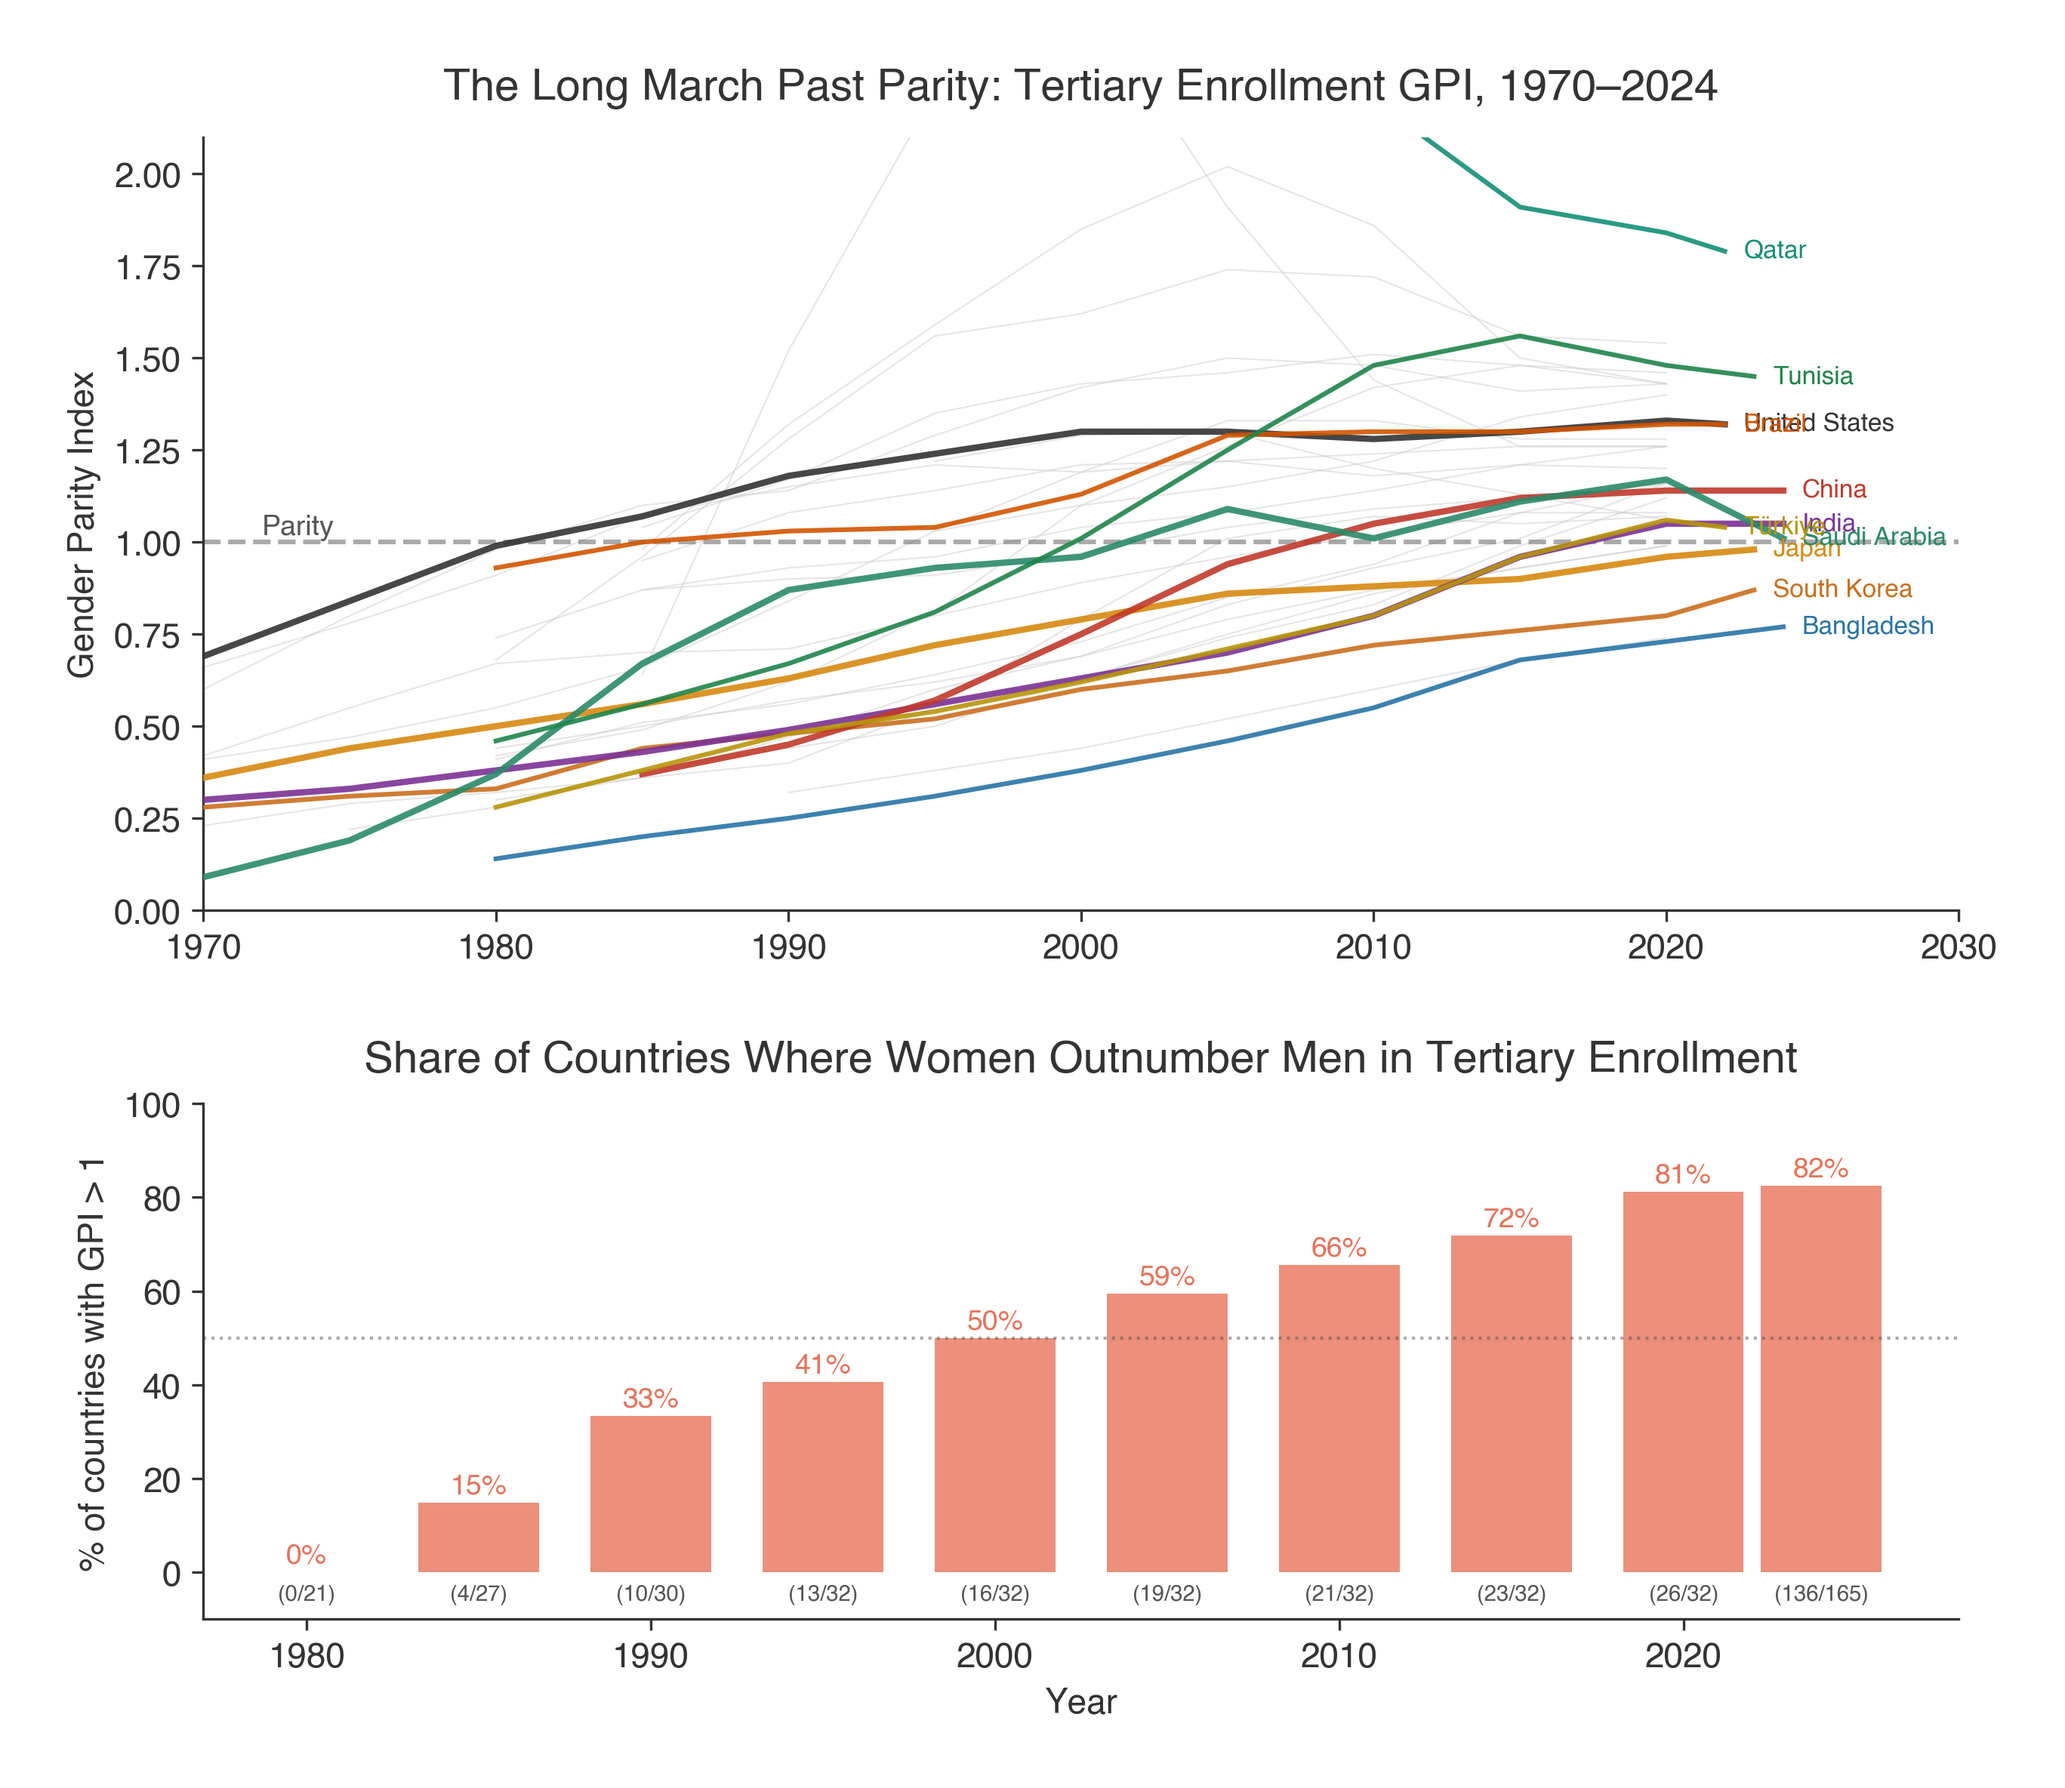
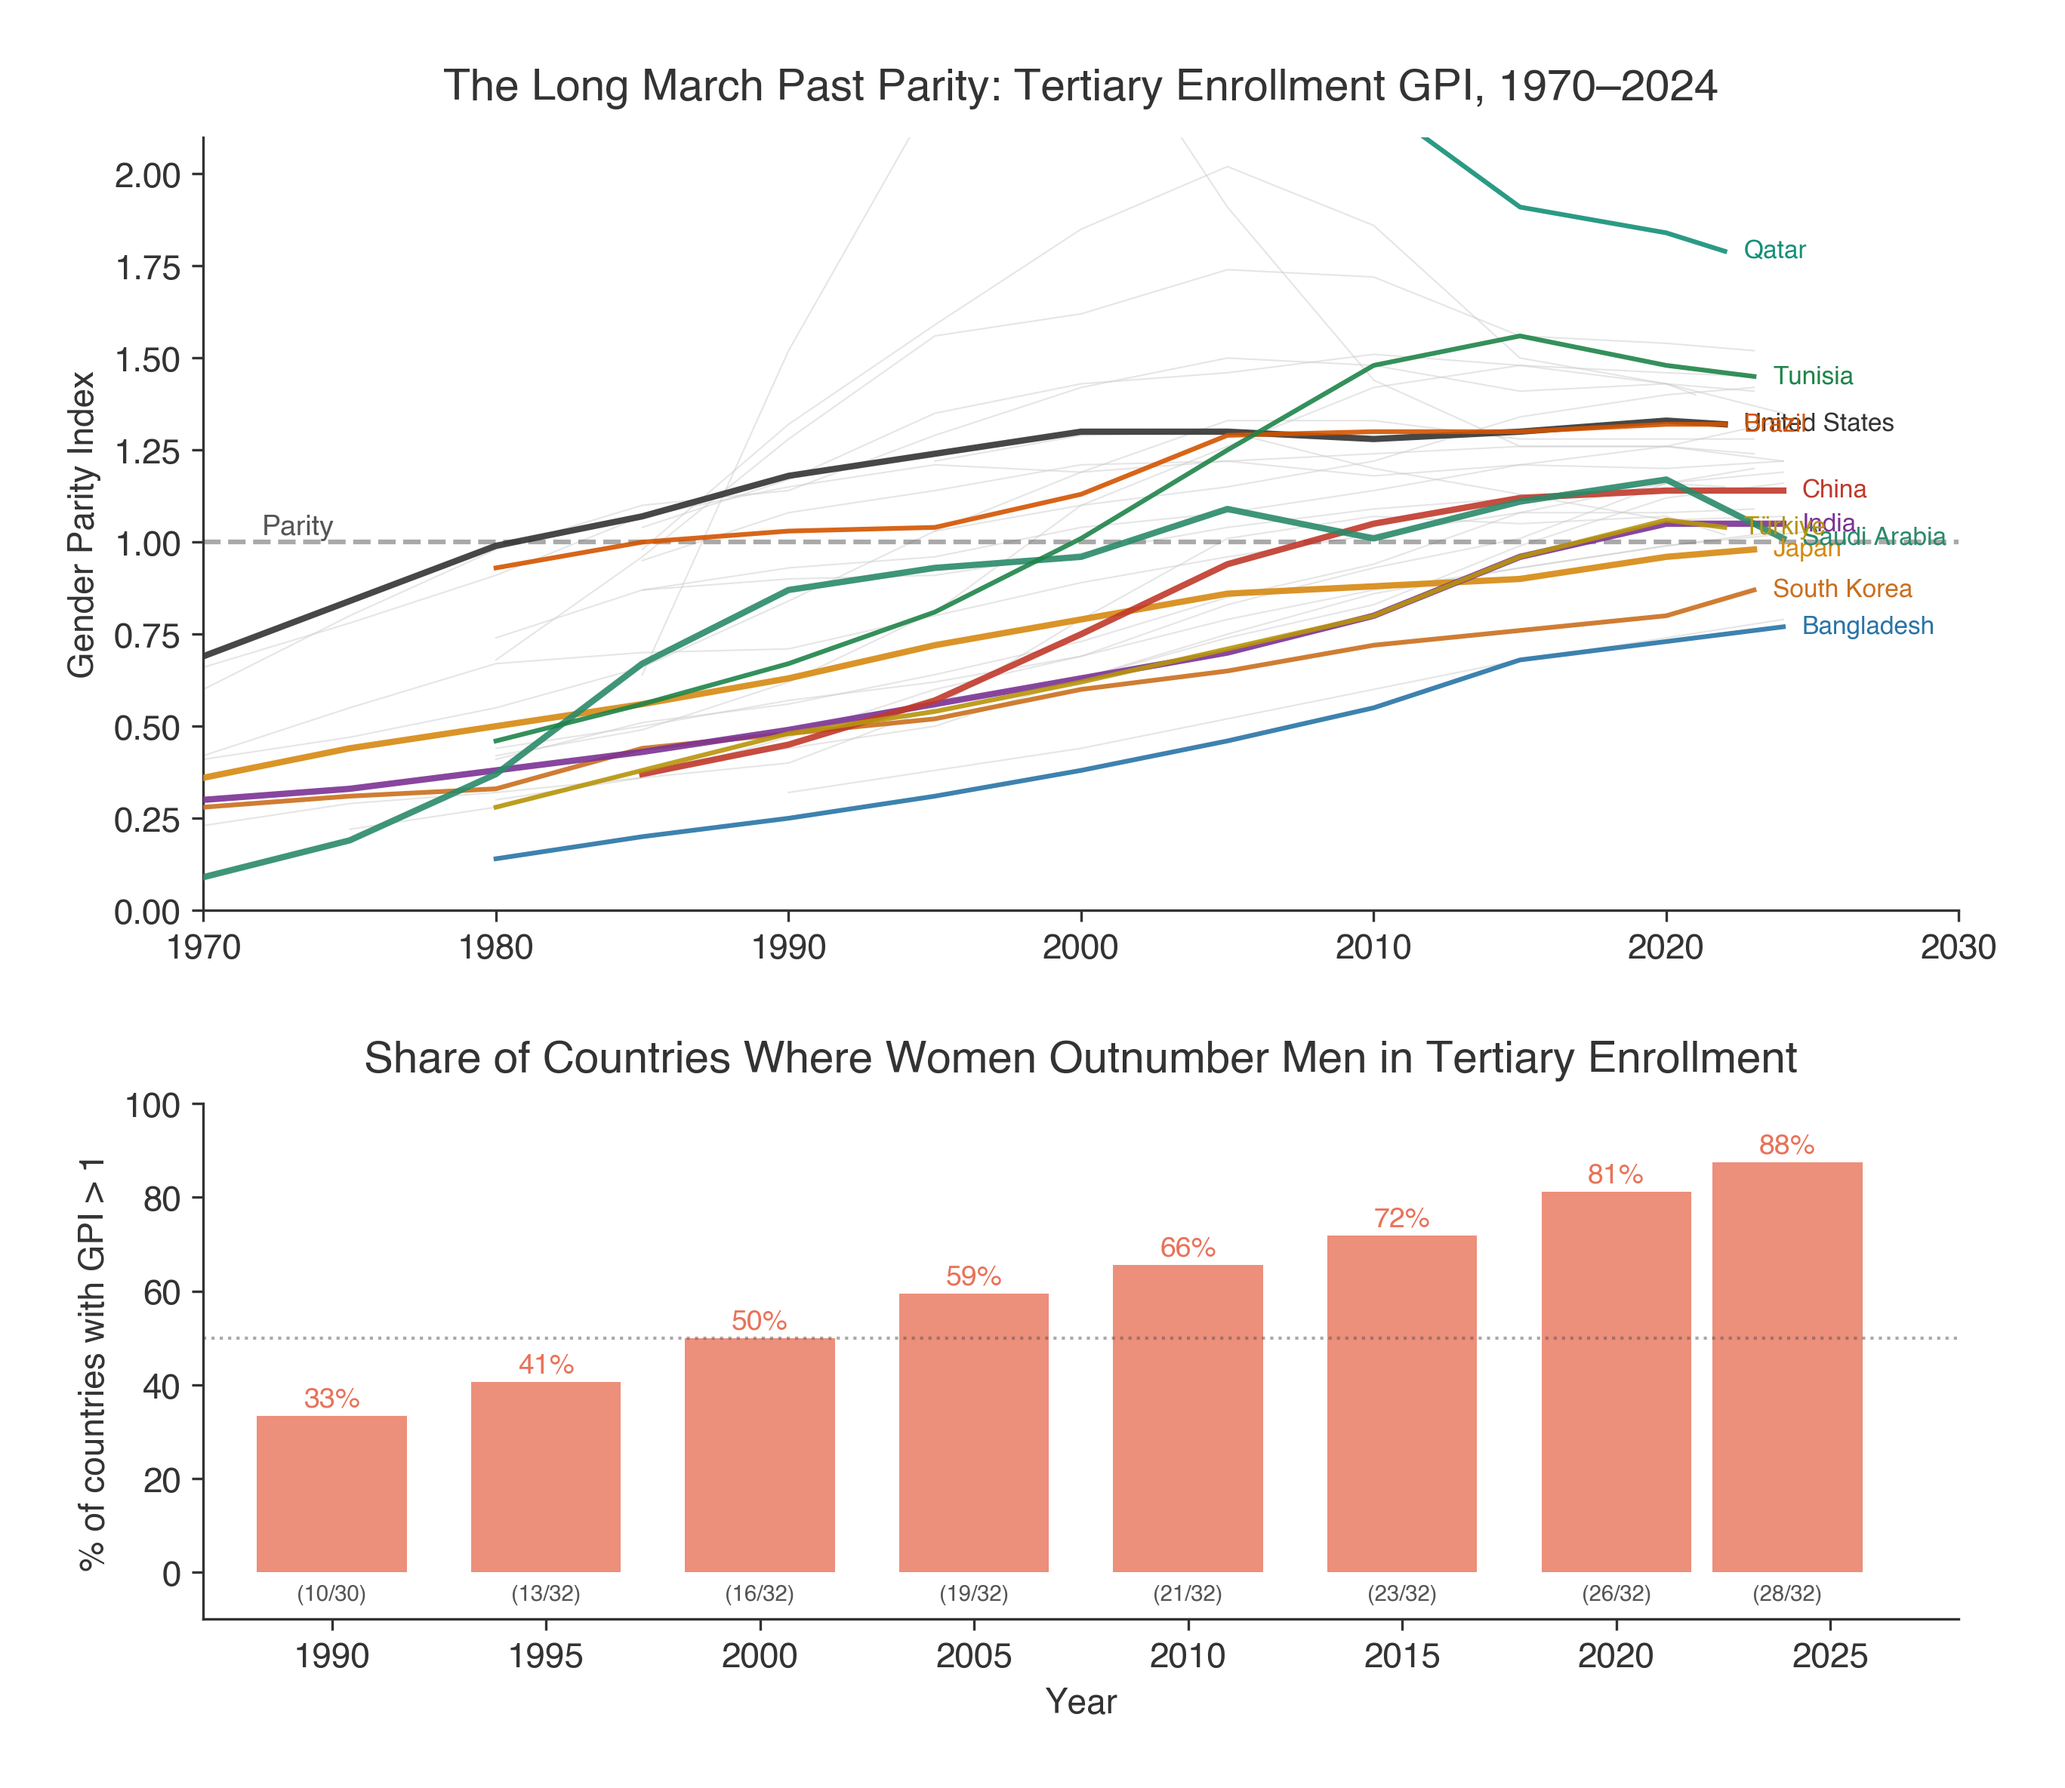
fix some plotting issues + new analysis of growth

Changed region(s): [[0.1243, 0.6247, 0.9324, 0.9371], [0.5594, 0.8746, 0.5905, 0.9371]]

diff --git a/scripts/04_make_figures.py b/scripts/04_make_figures.py
@@ -109,7 +109,7 @@ fig, (ax_hist, ax_strip) = plt.subplots(
 )
 
 gpis = [r['gpi'] for r in data]
-bins = np.arange(0.3, 1.95, 0.05)
+bins = np.round(np.arange(0.3, 1.95, 0.05), 2)
 colors_hist = [FEMALE if b >= 1.0 else MALE for b in bins[:-1]]
 n, _, patches = ax_hist.hist(gpis, bins=bins, edgecolor='white', linewidth=0.5)
 for patch, c in zip(patches, colors_hist):
@@ -121,7 +121,7 @@ ax_hist.annotate('Parity', xy=(1.0, ax_hist.get_ylim()[1]*0.92), fontsize=9, col
 ax_hist.annotate(f'Median = {np.median(gpis):.1f}', xy=(np.median(gpis), ax_hist.get_ylim()[1]*0.92), fontsize=9, color=GOLD, ha='left', xytext=(8,0), textcoords='offset points')
 ax_hist.set_ylabel('Number of countries'); ax_hist.set_xlim(0.3, 1.9)
 ax_hist.set_xticks([]); ax_hist.spines['bottom'].set_visible(False)
-ax_hist.set_title('Distribution of Tertiary Enrollment GPI across 165 Countries', pad=12)
+ax_hist.set_title('Distribution of Tertiary Enrollment GPI across 203 Countries', pad=12)
 
 maxpop = max(d['pop'] for d in data)
 for r in data:
@@ -250,9 +250,13 @@ highlight_countries = {
 for c in hist:
     if c['iso3'] not in highlight_countries:
         ts = c['ts']
-        if len(ts) >= 3:
+        if len(ts) >= 2:
             yrs = sorted(ts.keys())
-            ax_top.plot(yrs, [ts[y] for y in yrs], color='#cccccc', alpha=0.5, lw=0.5, zorder=1)
+            vals = [ts[y] for y in yrs]
+            if c['latest'] is not None:
+                yrs.append(c['latest_year'])
+                vals.append(c['latest'])
+            ax_top.plot(yrs, vals, color='#cccccc', alpha=0.5, lw=0.5, zorder=1)
 
 # Draw highlighted countries
 for c in hist:
@@ -282,7 +286,7 @@ ax_top.spines['right'].set_visible(False)
 
 # --- Bottom panel: share of countries with GPI > 1 over time ---
 # Compute for each snapshot year how many countries had data and how many > 1
-snapshot_years = [1980, 1985, 1990, 1995, 2000, 2005, 2010, 2015, 2020]
+snapshot_years = [1990, 1995, 2000, 2005, 2010, 2015, 2020]
 n_total = []
 n_above = []
 pct_above = []
@@ -294,11 +298,13 @@ for y in snapshot_years:
     n_above.append(len(above))
     pct_above.append(100 * len(above) / len(has_data) if has_data else 0)
 
-# Add latest snapshot from the full current dataset
+# Add latest snapshot from the historical panel (for consistency)
+latest_data = [c for c in hist if c['latest'] is not None]
+latest_above = [c for c in latest_data if c['latest'] > 1.0]
 snapshot_years.append(2024)
-n_total.append(165)
-n_above.append(136)
-pct_above.append(82.4)
+n_total.append(len(latest_data))
+n_above.append(len(latest_above))
+pct_above.append(100 * len(latest_above) / len(latest_data) if latest_data else 0)
 
 ax_bot.bar(snapshot_years, pct_above, width=3.5, color=FEMALE, alpha=0.8, edgecolor='none')
 ax_bot.axhline(50, color=PARITY, linewidth=1, linestyle=':', alpha=0.5)
@@ -307,7 +313,7 @@ for x, y, na, nt in zip(snapshot_years, pct_above, n_above, n_total):
     ax_bot.text(x, y + 2, f'{y:.0f}%', ha='center', fontsize=9, fontweight='bold', color=FEMALE)
     ax_bot.text(x, -6, f'({na}/{nt})', ha='center', fontsize=7, color='#555555')
 
-ax_bot.set_xlim(1977, 2028)
+ax_bot.set_xlim(1987, 2028)
 ax_bot.set_ylim(-10, 100)
 ax_bot.set_ylabel('% of countries with GPI > 1')
 ax_bot.set_xlabel('Year')

diff --git a/readme.md b/readme.md
@@ -25,7 +25,7 @@ Japan and South Korea are outliers among rich countries—still male-majority.
 ### Historical Trends
 ![](figs/fig5_historical.png)
 
-In 1970, no country had more women than men in universities. By 2000, half did. Today, over 80%.
+In 1990, about a third of countries in our 32-country panel had GPI > 1. By 2000, half did. By 2024, nearly 90%. The median rate of increase is +0.15 GPI per decade.
 
 ### Education vs Employment
 ![](figs/fig6_gpi_vs_lfpr.png)
@@ -130,7 +130,7 @@ make clean     # Remove generated files
 ## Key findings
 
 - **75%** of countries have GPI > 1 (female > male tertiary enrollment)
-- **In 1970**, no country in our panel had GPI > 1. By 2000, about half. By 2024, over 80%.
+- **In 1990**, about a third of countries in our 32-country panel had GPI > 1. By 2000, half. By 2024, ~90%. Median slope: +0.15/decade.
 - **Pop-weighted mean** (1.1) is lower than the median (1.2)—the population giants lag
 - **Japan and South Korea** are the only large high-income countries with GPI < 1
 - **MENA paradox**: Several countries have GPI > 1 but overall female LFPR below 15%
